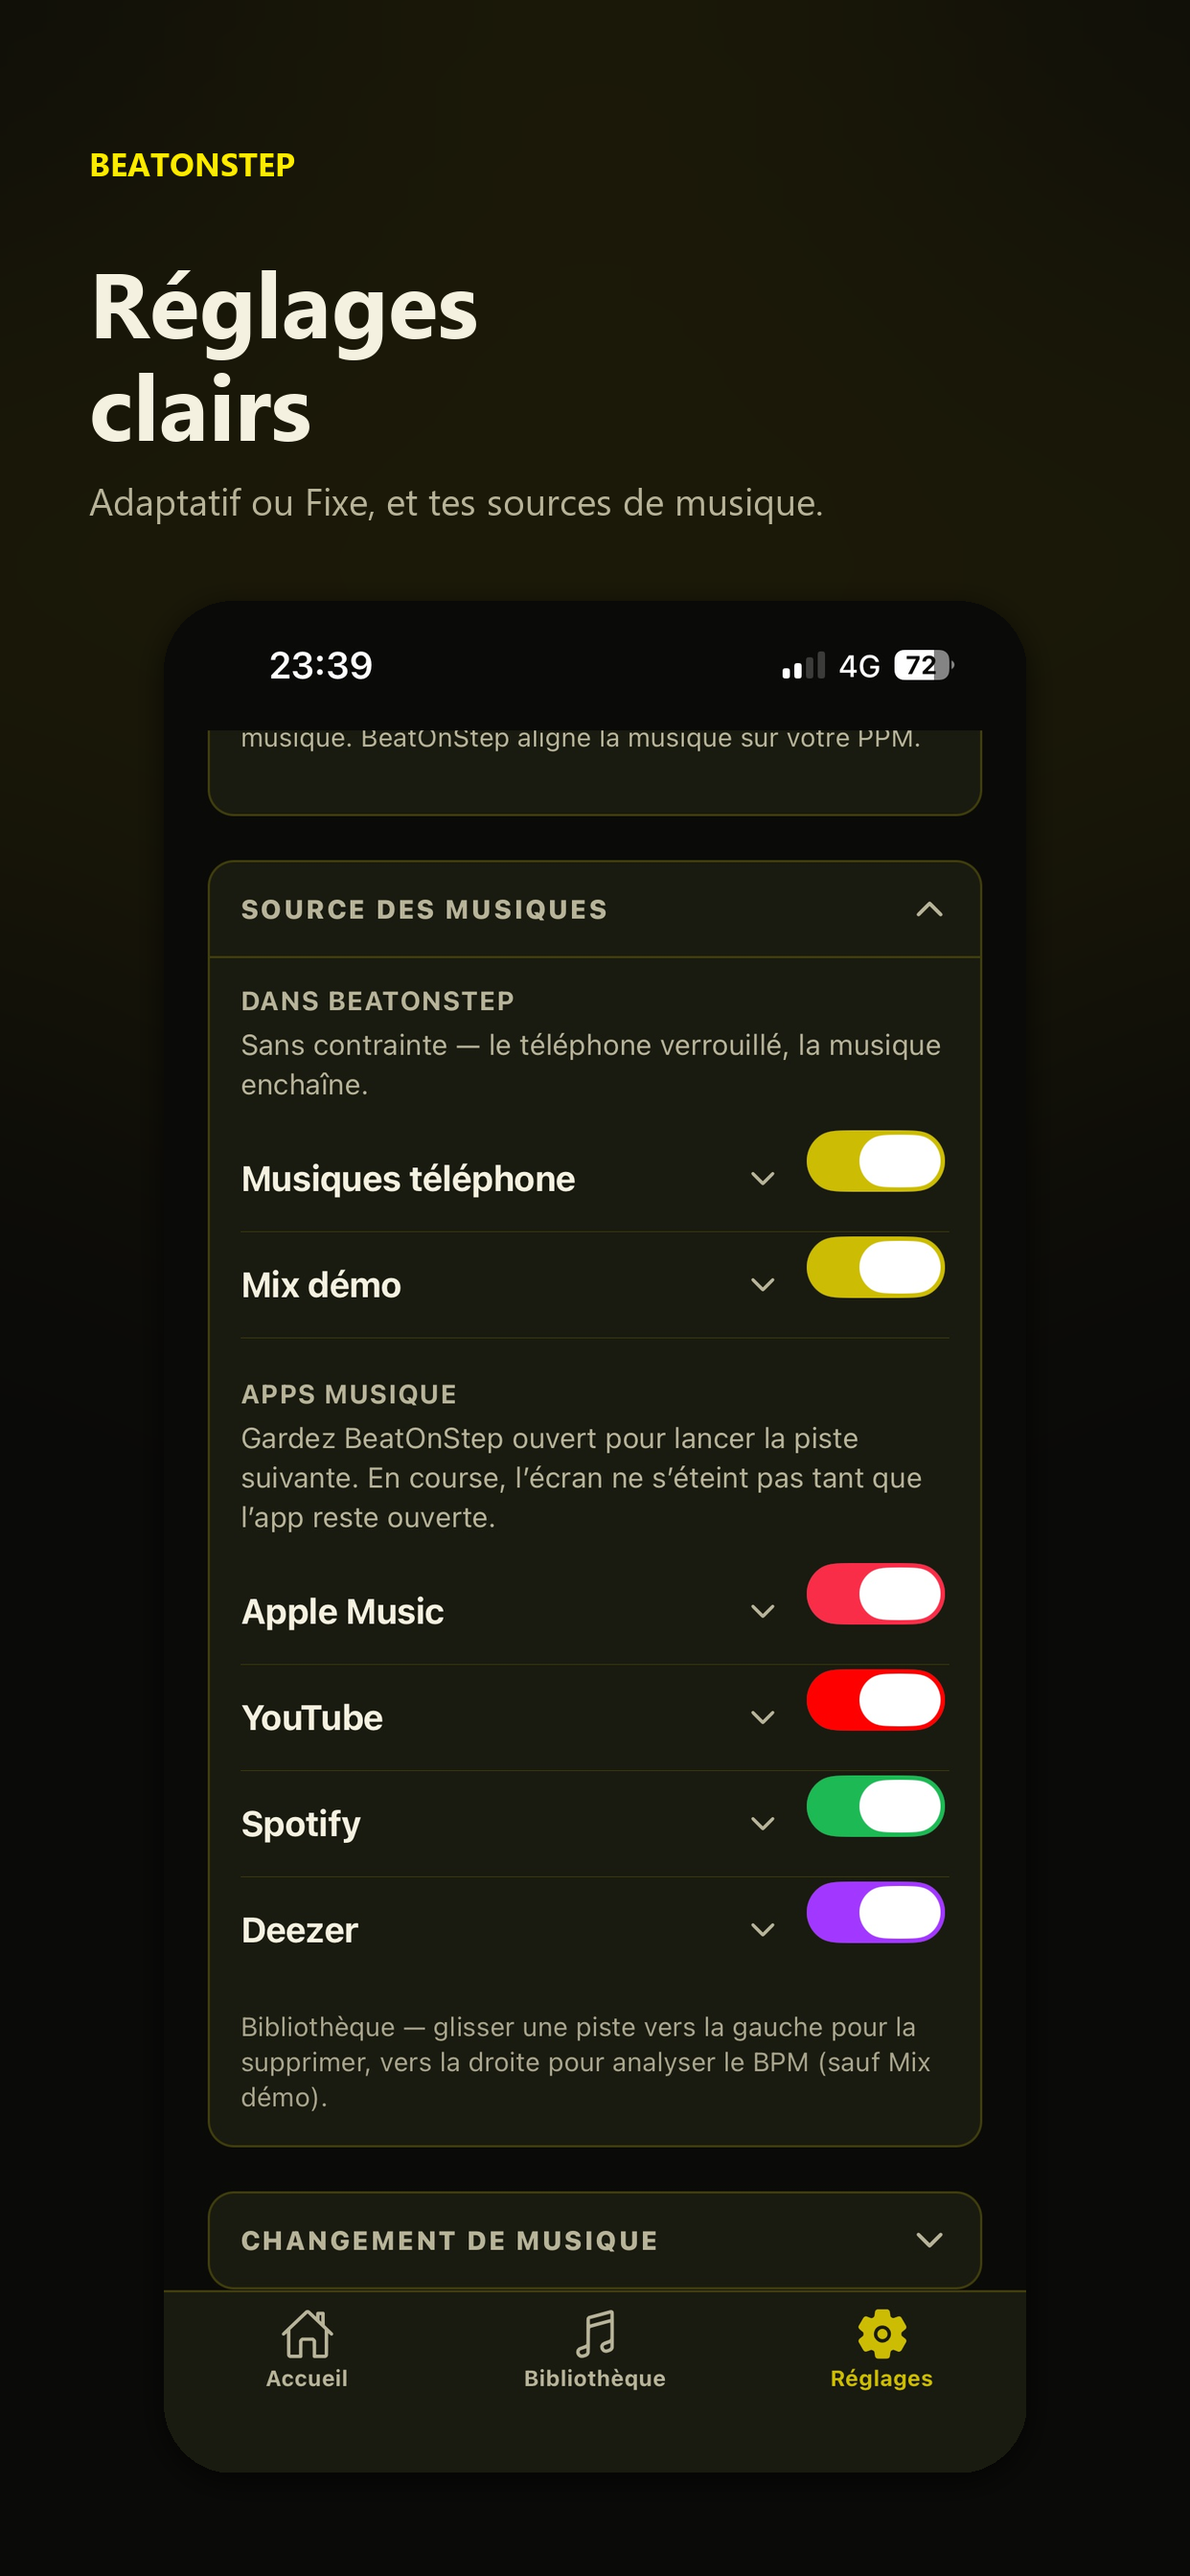
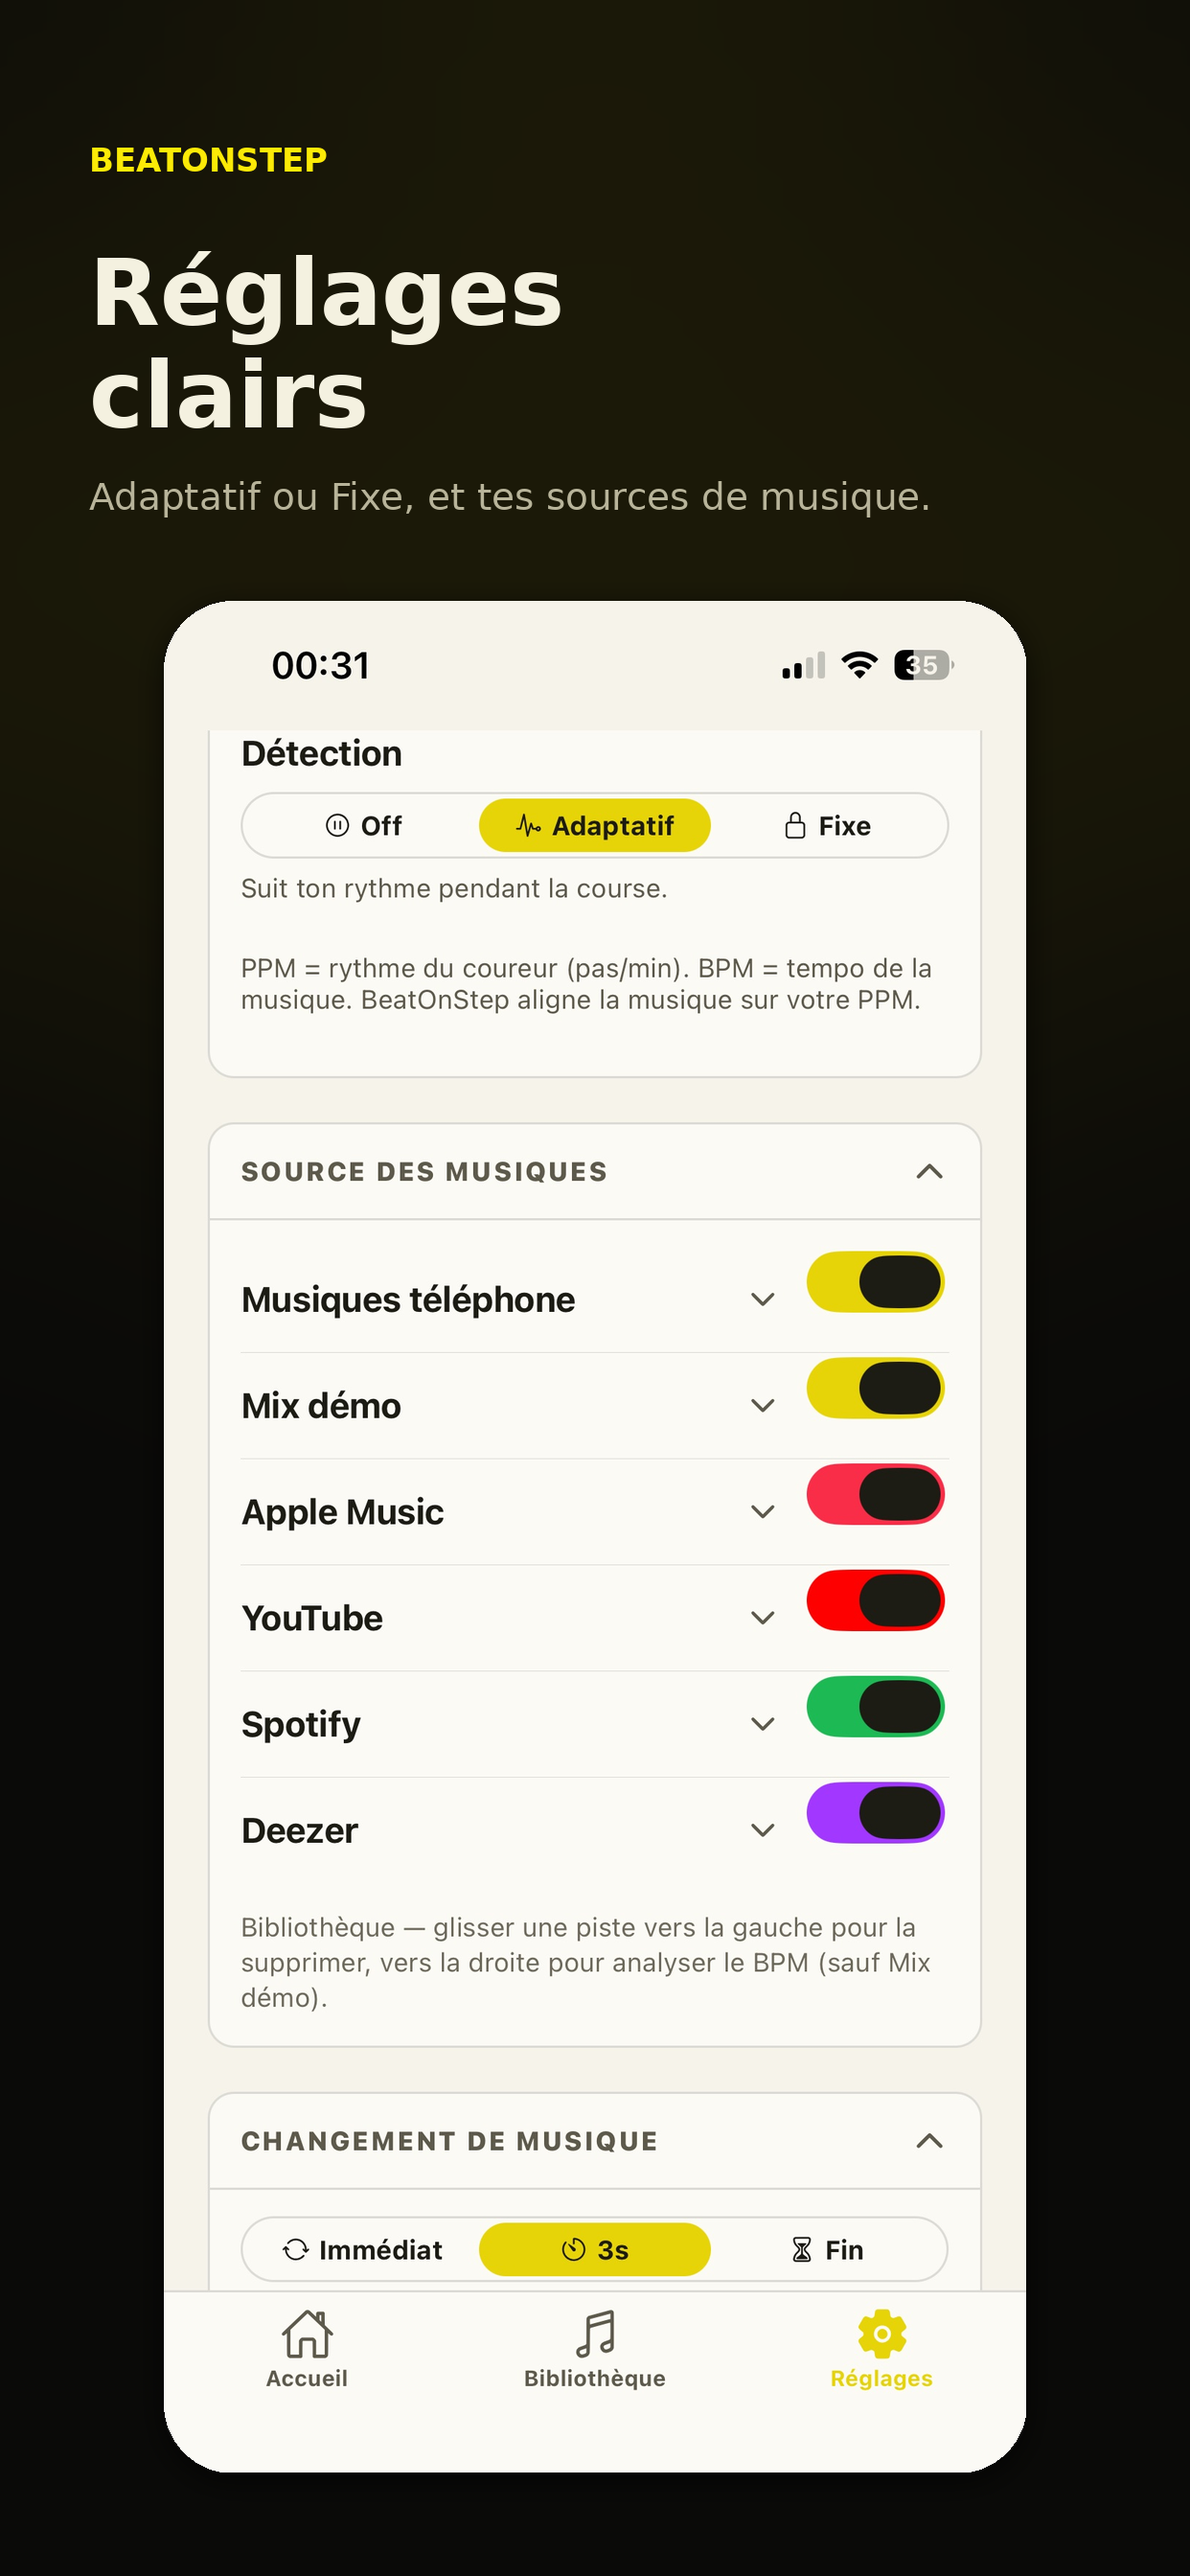
store: refresh Réglages screenshot (sources all ON)
Replace source_mode_param with clear light-theme Settings capture
(all music sources ON, brand-colored toggles). Regenerate 03-reglages
for Apple + Play; keep all-OFF as Brut reference. Archive prior assets.

diff --git a/store/generate.py b/store/generate.py
@@ -71,8 +71,27 @@ PLAY_SCREENS = [
     APPLE_SCREENS[3],
 ]
 
-FONT_REG = r"C:\Windows\Fonts\segoeui.ttf"
-FONT_BOLD = r"C:\Windows\Fonts\segoeuib.ttf"
+FONT_CANDIDATES_REG = [
+    r"C:\Windows\Fonts\segoeui.ttf",
+    "/usr/share/fonts/truetype/dejavu/DejaVuSans.ttf",
+    "/System/Library/Fonts/Supplemental/Arial.ttf",
+]
+FONT_CANDIDATES_BOLD = [
+    r"C:\Windows\Fonts\segoeuib.ttf",
+    "/usr/share/fonts/truetype/dejavu/DejaVuSans-Bold.ttf",
+    "/System/Library/Fonts/Supplemental/Arial Bold.ttf",
+]
+
+
+def _first_font(candidates: list[str]) -> str:
+    for c in candidates:
+        if os.path.isfile(c):
+            return c
+    raise FileNotFoundError("No usable font found for store/generate.py")
+
+
+FONT_REG = _first_font(FONT_CANDIDATES_REG)
+FONT_BOLD = _first_font(FONT_CANDIDATES_BOLD)
 
 
 def font(path: str, size: int) -> ImageFont.FreeTypeFont:

diff --git a/store/google/NOTES.md b/store/google/NOTES.md
@@ -43,3 +43,11 @@ Les captures iPhone brutes (1179×2556 ≈ 9:19,5) ne passent pas.
 | `feature-graphic-bientot-1024x500.jpg` | 1024 × 500 | Ancien texte « Bientôt sur Google Play » |
 
 L’original du site reste `assets/brand/og-image.jpg` — ne pas le déplacer.
+
+## Maj 2026-09-10 — capture Réglages
+
+- **Brut (choix store)** : `screenshots-archive/Brut/source_mode_param.PNG` = **sources toutes ON** (toggles couleurs marque).
+- **Référence non store** : `screenshots-archive/Brut/source_mode_param_all_off.PNG` = toutes OFF (détail sources).
+- Site : `assets/screenshots/app/settings-sources.png` (ON) · `settings-sources-all-off.png` (OFF).
+- Composites régénérés : `03-reglages.png` (Apple + Play). Anciennes : `conforme/archives-precedentes/2026-09-10-reglages/`.
+- Motif : remplacer l’ancien Réglages sombre / hors sync Path B Spotify·Deezer.

diff --git a/store/apple/NOTES.md b/store/apple/NOTES.md
@@ -44,3 +44,11 @@ conforme/2778x1284/
 | `pub-testflight-1024x1536.png` | 1024 × 1536 | Pub portrait TestFlight, pas une capture store |
 
 Les PNG dans `screenshots-archive/Brut/` (1179×2556) ne sont **pas** uploadables tels quels.
+
+## Maj 2026-09-10 — capture Réglages
+
+- **Brut (choix store)** : `screenshots-archive/Brut/source_mode_param.PNG` = **sources toutes ON** (toggles couleurs marque).
+- **Référence non store** : `screenshots-archive/Brut/source_mode_param_all_off.PNG` = toutes OFF (détail sources).
+- Site : `assets/screenshots/app/settings-sources.png` (ON) · `settings-sources-all-off.png` (OFF).
+- Composites régénérés : `03-reglages.png` (Apple + Play). Anciennes : `conforme/archives-precedentes/2026-09-10-reglages/`.
+- Motif : remplacer l’ancien Réglages sombre / hors sync Path B Spotify·Deezer.
